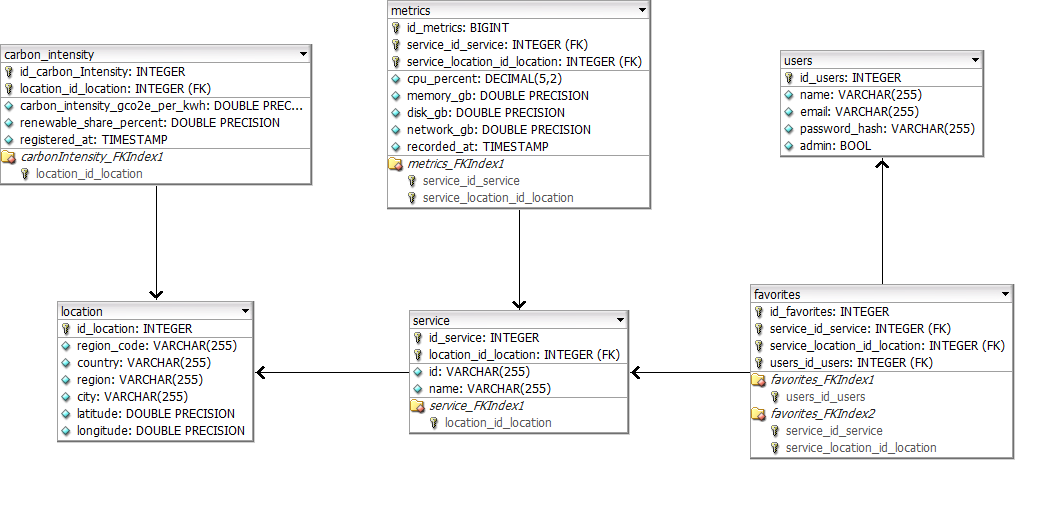
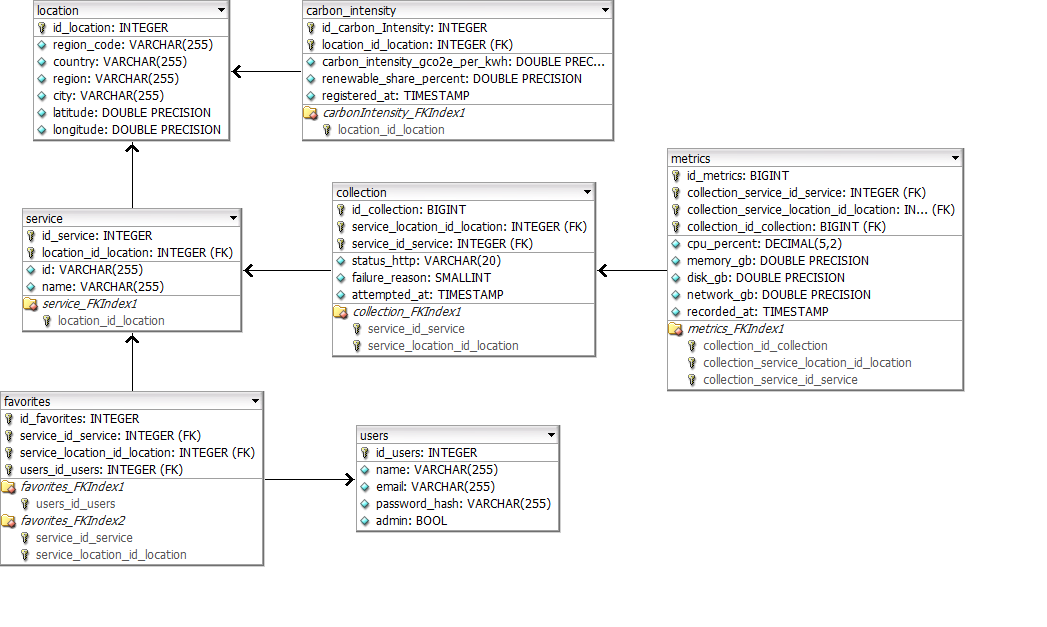
fix: atualiza sprint-1.md e modelo lógico do bd

Changed region(s): [[0.0, 0.0, 0.978, 0.9062], [0.9475, 0.7188, 0.978, 0.75]]

diff --git a/docs/sprints/sprint-1.md b/docs/sprints/sprint-1.md
@@ -30,8 +30,8 @@ A equipe iniciou com a definição dos fluxos, a modelagem de dados e a prototip
 | [Casos de uso](../uml/UseCase.png) | Interações e funcionalidades previstas |
 | [Diagrama de sequência](../uml/Sequence%20Diagram0.png) | Comunicação entre componentes |
 | [Diagrama de classes](../uml/Class%20Diagram0.png) | Organização inicial dos elementos de domínio |
-| [Modelo lógico do banco](../bd_models/logical-model-greener.png) | Entidades e relacionamentos para persistência |
-| [Protótipos de interface](../prototipos/) | Navegação, hierarquia visual e telas previstas |
+| [Modelo lógico do banco](../prototipos/database/logical-model-greener.png) | Entidades e relacionamentos para persistência |
+| [Protótipos de interface](../prototipos/frontend) | Navegação, hierarquia visual e telas previstas |
 
 ## 03 · Construção da base tecnológica
 
